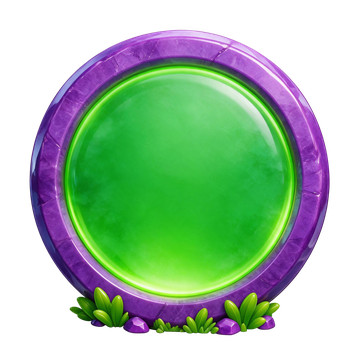
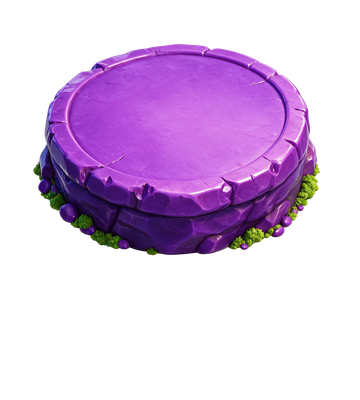
Le Chemin : dalles de pierre couchées au sol et sentier de pierre sable
Reprise d'après la référence de Jack. Les médaillons verticaux face caméra
laissent la place à de vraies dalles couchées, vues en perspective, avec le
chiffre gravé en crème sur la face : pierre dorée pour une étape terminée,
violette pour l'étape en cours, grise pour une étape verrouillée. Le
sentier passe du pavé doré à la pierre sable, plus étroite et appareillée
en rangées alternées.

Le calage du chiffre sur la face a demandé la bonne méthode : ni la rangée
la plus large (le rebord rocheux évase la dalle vers le bas), ni l'étendue
gauche-droite de la ligne (les étincelles de la dalle dorée faussaient la
mesure). On ajuste une parabole sur la largeur² du plus large segment
continu — pour une ellipse c'est exact — et son sommet donne le centre et
le diamètre de la face. Les trois dalles sont normalisées dessus, donc le
chiffre tombe au même endroit quel que soit l'état.

Claude-Session: https://claude.ai/code/session_01Yc3XUDTvi28KwCZYaeYVDC

diff --git a/src/components/chemin/CheminScreen.tsx b/src/components/chemin/CheminScreen.tsx
@@ -283,26 +283,33 @@ export function CheminScreen() {
       <div className="container-x relative mx-auto flex min-h-screen max-w-md flex-col pb-8 pt-[15.5rem] sm:pt-[17rem]">
 
         {/* Le sentier */}
-        <div ref={trailRef} className="relative mt-2 w-full flex-1" style={{ minHeight: Math.max(520, chap.etapes.length * 98) }}>
+        <div ref={trailRef} className="relative mt-2 w-full flex-1" style={{ minHeight: Math.max(560, chap.etapes.length * 112) }}>
           {/* La route de pierre : même tracé que les dalles, donc toujours dessous. */}
           {trail.w > 0 ? (
             <svg width={trail.w} height={trail.h} className="pointer-events-none absolute inset-0" aria-hidden>
               <defs>
-                <linearGradient id="chemin-route" x1="0" y1="0" x2="1" y2="0">
-                  <stop offset="0%" stopColor="#C9A24B" />
-                  <stop offset="42%" stopColor="#F2DFA6" />
-                  <stop offset="100%" stopColor="#B98F3C" />
+                <linearGradient id="chemin-route" x1="0" y1="0" x2="0" y2="1">
+                  <stop offset="0%" stopColor="#F0DDAF" />
+                  <stop offset="100%" stopColor="#D9BC84" />
                 </linearGradient>
               </defs>
-              {/* Le lit de terre sombre, puis les pavés posés dessus un à un. */}
-              <path d={roadPath(pts, trail.w, trail.h)} fill="none" stroke="rgba(28,18,42,.42)" strokeWidth={44} strokeLinecap="round" strokeLinejoin="round" />
-              {roadSlabs(pts, trail.w, trail.h).map((sl, i) => (
-                <g key={`s${i}`} transform={`translate(${sl.x} ${sl.y}) rotate(${sl.a + 90})`}>
-                  <rect x={-17} y={-10} width={34} height={20} rx={6} fill="rgba(20,12,32,.5)" transform="translate(0 2.5)" />
-                  <rect x={-17} y={-10} width={34} height={20} rx={6} fill="url(#chemin-route)" />
-                  <rect x={-13} y={-7.5} width={26} height={5} rx={2.5} fill="rgba(255,255,255,.3)" />
-                </g>
-              ))}
+              {/* Le sentier de terre battue, puis ses pavés clairs posés dessus. */}
+              <path d={roadPath(pts, trail.w, trail.h)} fill="none" stroke="rgba(86,58,30,.42)" strokeWidth={62} strokeLinecap="round" strokeLinejoin="round" />
+              <path d={roadPath(pts, trail.w, trail.h)} fill="none" stroke="#C4A16A" strokeWidth={54} strokeLinecap="round" strokeLinejoin="round" />
+              {roadSlabs(pts, trail.w, trail.h, 21).map((sl, i) => {
+                // Deux rangées de pavés, décalées d'une ligne sur l'autre : le
+                // sentier a l'air appareillé plutôt qu'aligné à la règle.
+                const rad = ((sl.a + 90) * Math.PI) / 180;
+                const nx = Math.cos(rad);
+                const ny = Math.sin(rad);
+                const dec = i % 2 === 0 ? [-11, 11] : [-22, 0, 22];
+                return dec.map((d, k) => (
+                  <g key={`s${i}-${k}`} transform={`translate(${sl.x + nx * d} ${sl.y + ny * d}) rotate(${sl.a + 90})`}>
+                    <rect x={-9} y={-6.5} width={18} height={13} rx={4.5} fill="rgba(120,84,44,.35)" transform="translate(0 1.5)" />
+                    <rect x={-9} y={-6.5} width={18} height={13} rx={4.5} fill="url(#chemin-route)" />
+                  </g>
+                ));
+              })}
             </svg>
           ) : null}
           {chap.etapes.map((et, i) => {
@@ -311,9 +318,9 @@ export function CheminScreen() {
             const courant = ouvert && i === done;
             const verrou = !ouvert || i > done;
             return (
-              <div key={i} className="absolute -translate-x-1/2 -translate-y-1/2" style={{ left: `${p.x}%`, top: `${p.y}%` }}>
+              <div key={i} className="absolute" style={{ left: `${p.x}%`, top: `${p.y}%`, transform: "translate(-50%, -40%)" }}>
                 {et.coffre ? (
-                  <div className="absolute -right-[52px] -top-1"><Coffre open={fait} className="h-11" /></div>
+                  <div className="absolute -right-[46px] top-2"><Coffre open={fait} className="h-11" /></div>
                 ) : null}
                 <button
                   type="button"
@@ -325,7 +332,7 @@ export function CheminScreen() {
                   }}
                   ref={courant ? curNodeRef : undefined}
                   aria-label={`Étape ${i + 1}${fait ? " (terminée)" : verrou ? " (verrouillée)" : ""}`}
-                  className="relative block h-[62px] w-[62px] transition-transform active:scale-90"
+                  className="relative block h-[104px] w-[94px] transition-transform active:scale-95"
                   style={courant ? { animation: "chemin-pulse 1.6s ease-in-out infinite" } : undefined}
                 >
                   {/* eslint-disable-next-line @next/next/no-img-element */}
@@ -333,16 +340,21 @@ export function CheminScreen() {
                     src={asset(fait ? "/img/chemin/ui/dalle-or.png" : courant ? "/img/chemin/ui/dalle-active.png" : "/img/chemin/ui/dalle-verrou.png")}
                     alt=""
                     aria-hidden
-                    className="h-full w-full object-contain drop-shadow-[0_4px_7px_rgba(0,0,0,.6)]"
+                    className="h-full w-full object-contain drop-shadow-[0_6px_9px_rgba(0,0,0,.55)]"
                   />
-                  {/* Le chiffre ou la coche se pose au centre de la face : les
-                      trois dalles partagent le même gabarit, donc rien ne bouge
-                      d'un état à l'autre. */}
+                  {/* Le chiffre est gravé au centre de la face — à 40 % de la
+                      hauteur de l'image, position identique sur les trois
+                      dalles — et légèrement écrasé pour épouser la perspective. */}
                   <span
-                    className="pointer-events-none absolute inset-0 grid place-items-center font-game text-[19px] font-black"
-                    style={{ color: fait ? "#5a3208" : courant ? "#08340f" : "rgba(243,243,237,.42)" }}
+                    className="pointer-events-none absolute left-1/2 grid place-items-center font-game text-[30px] font-black leading-none"
+                    style={{
+                      top: "40%",
+                      transform: "translate(-50%, -50%) scaleY(.86)",
+                      color: verrou ? "rgba(240,240,235,.55)" : "#F7EFDC",
+                      textShadow: "0 2px 0 rgba(74,44,10,.55), 0 4px 10px rgba(0,0,0,.45)",
+                    }}
                   >
-                    {fait ? <IcoCheck className="h-6 w-6" /> : verrou ? <IcoLock className="h-5 w-5" /> : i + 1}
+                    {fait ? <IcoCheck className="h-8 w-8" /> : verrou ? <IcoLock className="h-7 w-7" /> : i + 1}
                   </span>
                 </button>
               </div>

diff --git a/docs/CHEMIN-ASSETS.md b/docs/CHEMIN-ASSETS.md
@@ -248,3 +248,46 @@ Les 18 étapes des deux chapitres sont réécrites : chaque étape a son
 verset) et un mélange de difficultés, avec des questions expertes
 (dimensions de l'arche, les quatre fleuves d'Éden, les 150 jours, la
 promesse de Genèse 3:15).
+
+## Dalles posées à plat (5e passe)
+
+Jack a fourni une référence : des **dalles de pierre couchées au sol**, vues
+en perspective (donc elliptiques), le chiffre gravé en crème sur la face,
+et un sentier de pierre sable qui serpente entre elles. Les médaillons
+verticaux face caméra sont remplacés par ces dalles.
+
+| Fichier | État |
+| --- | --- |
+| `dalle-or.png` | étape terminée — pierre dorée, étincelles |
+| `dalle-active.png` | étape en cours — pierre violette |
+| `dalle-verrou.png` | étape verrouillée — pierre grise |
+
+### Le calage : ajustement d'ellipse, pas « rangée la plus large »
+
+Pour une dalle couchée, le chiffre doit tomber au centre de la FACE, pas au
+milieu de l'image. Deux méthodes ont échoué avant la bonne :
+
+1. *Rangée la plus large* — un cylindre vu de biais a une bande entière à
+   largeur maximale (du haut de la face au bas de la paroi), et surtout le
+   rebord rocheux évase la dalle vers le bas : le repère tombait trop bas.
+2. *Étendue gauche-droite de la ligne* — les étincelles détachées autour de
+   la dalle dorée élargissaient la mesure et la dalle sortait surdimensionnée.
+
+La méthode retenue (`fit_face`) : on prend le plus large **segment continu**
+par ligne (les étincelles isolées sont ignorées), puis on ajuste une
+parabole sur `largeur²` en fonction de `y` sur le haut de la silhouette —
+pour une ellipse, `largeur²` est exactement une parabole en `y`, et son
+sommet donne le centre et le diamètre de la face. Les trois dalles sont
+ensuite normalisées à 300 px de face, centre placé à **40 % de la hauteur**
+d'un canevas 360×400.
+
+Côté app : le point du sentier est aligné sur ce centre de face
+(`transform: translate(-50%, -40%)`), et le chiffre est posé à `top: 40%`
+avec un `scaleY(.86)` pour épouser la perspective.
+
+### Le sentier
+
+Passé du pavé doré à la **pierre sable** de la référence : un lit de terre
+(62 px), la bande de sentier (54 px), puis de petits pavés clairs disposés
+en deux ou trois rangées alternées d'une ligne à l'autre, pour un
+appareillage irrégulier plutôt qu'un alignement à la règle.
